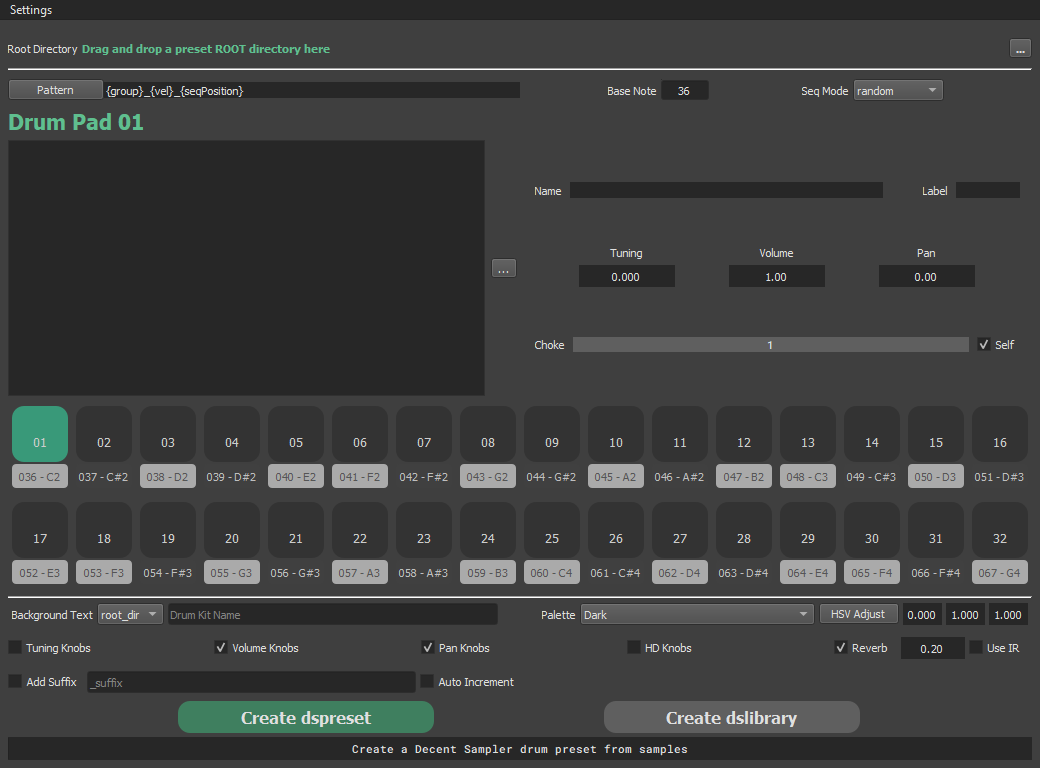
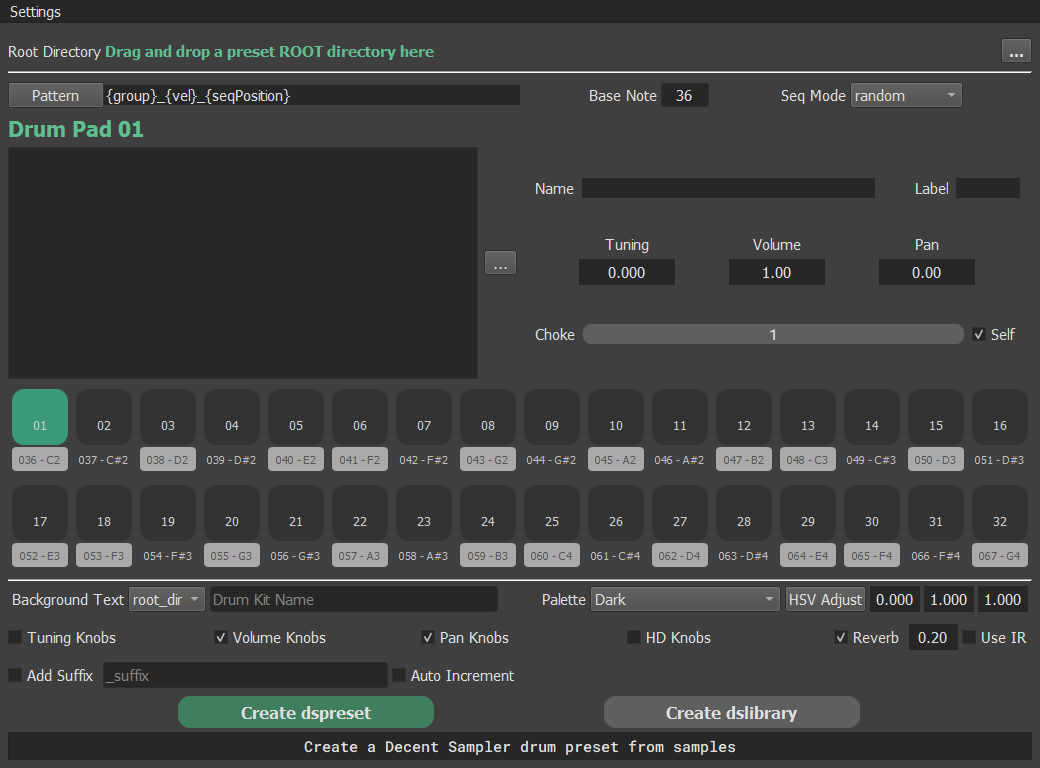
- Updated documentation with new screen captures

diff --git a/screen_caps.py b/screen_caps.py
@@ -68,6 +68,10 @@ if __name__ == '__main__':
     app = QApplication(sys.argv)
     apply_dark_theme(app)
 
+    font = app.font()
+    font.setPointSize(11)
+    app.setFont(font)
+
     window = ScreenCap()
     window.show()
 
